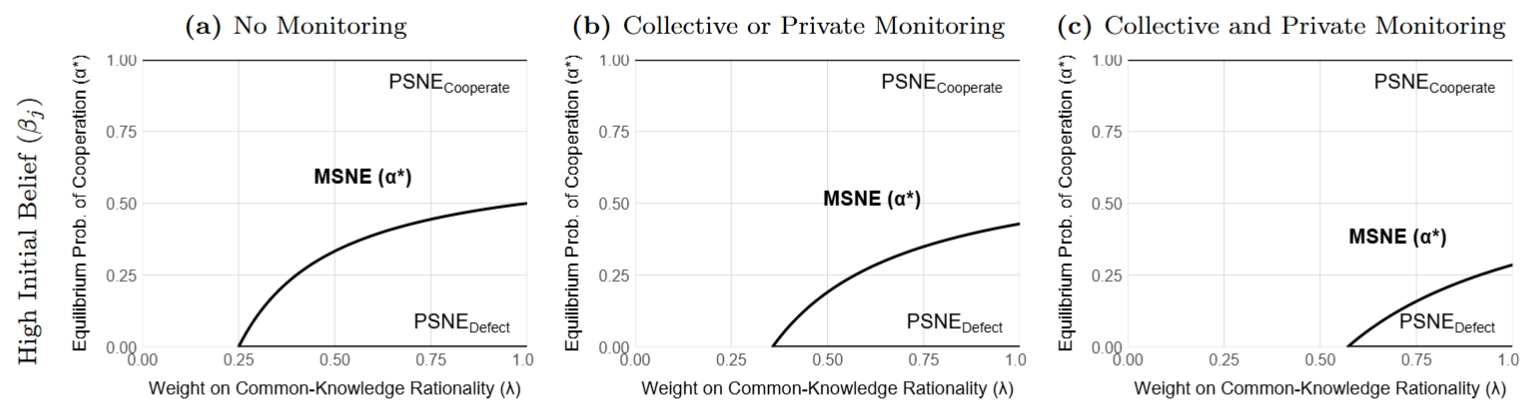
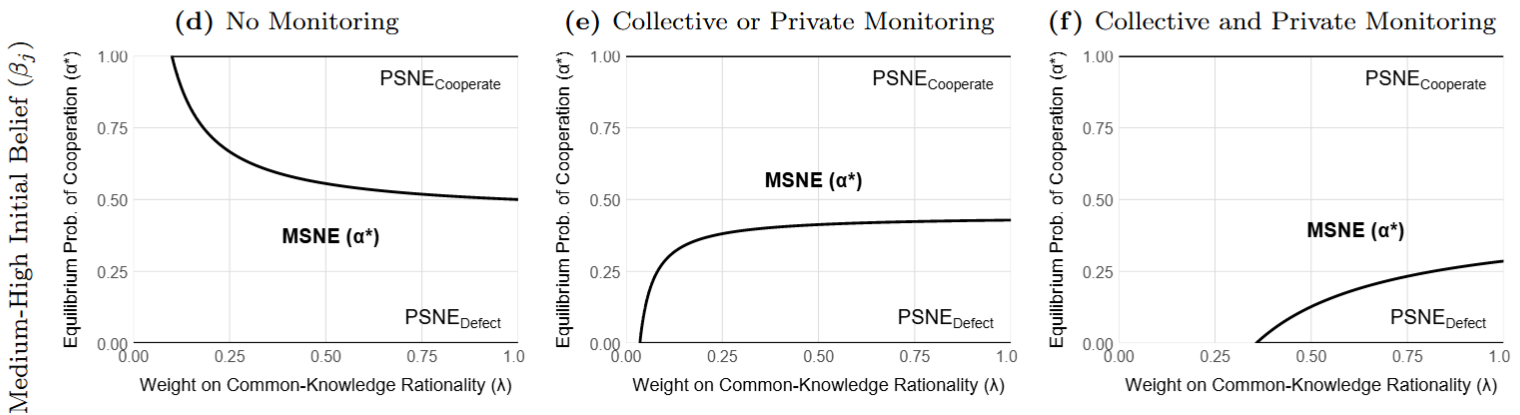
update image

diff --git a/_pages/research.md b/_pages/research.md
@@ -105,7 +105,7 @@ author_profile: yes
 <div class="card">
 <p style="font-size: 11.5pt; text-align: left; margin-bottom: 0.5em;">"<a href="https://mikedenly.com/research/aid-strategic">Bureaucratic Autonomy and Donor Strategic Interest in Multilateral Foreign Aid</a>."<i> Presented at the Political Economy of International Organizations (PEIO) Conference</i>. <a href="https://mikedenly.com/research/aid-strategic"><img src="/images/foreign_aid.png" class="thumbnail" style="width: 90%;"></a></p></div>
 <div class="card">
-<p style="font-size: 11.5pt; text-align: left; margin-bottom: 0.5em;">"<a href="https://mikedenly.com/research/monitoring-corruption-collective-action-problem">Monitoring Corruption and Overcoming the Collective Action Problem: A Unified Model</a>." (w/ Torben Behmer). <a href="https://mikedenly.com/research/monitoring-corruption-collective-action-problem"><img src="/images/trace_plots.png" class="thumbnail1" style="width: 90%;"></a></p></div> 
+<p style="font-size: 11.5pt; text-align: left; margin-bottom: 0.5em;">"<a href="https://mikedenly.com/research/monitoring-corruption-collective-action-problem">Monitoring Corruption and Overcoming the Collective Action Problem: A Unified Model</a>." <i> Presented at the French Society for Evolutionary Human Sciences' Annual Conference</i> (w/ Torben Behmer). <a href="https://mikedenly.com/research/monitoring-corruption-collective-action-problem"><img src="/images/trace_plots2.png" class="thumbnail1" style="width: 90%;"></a></p></div> 
 </div>
 
 